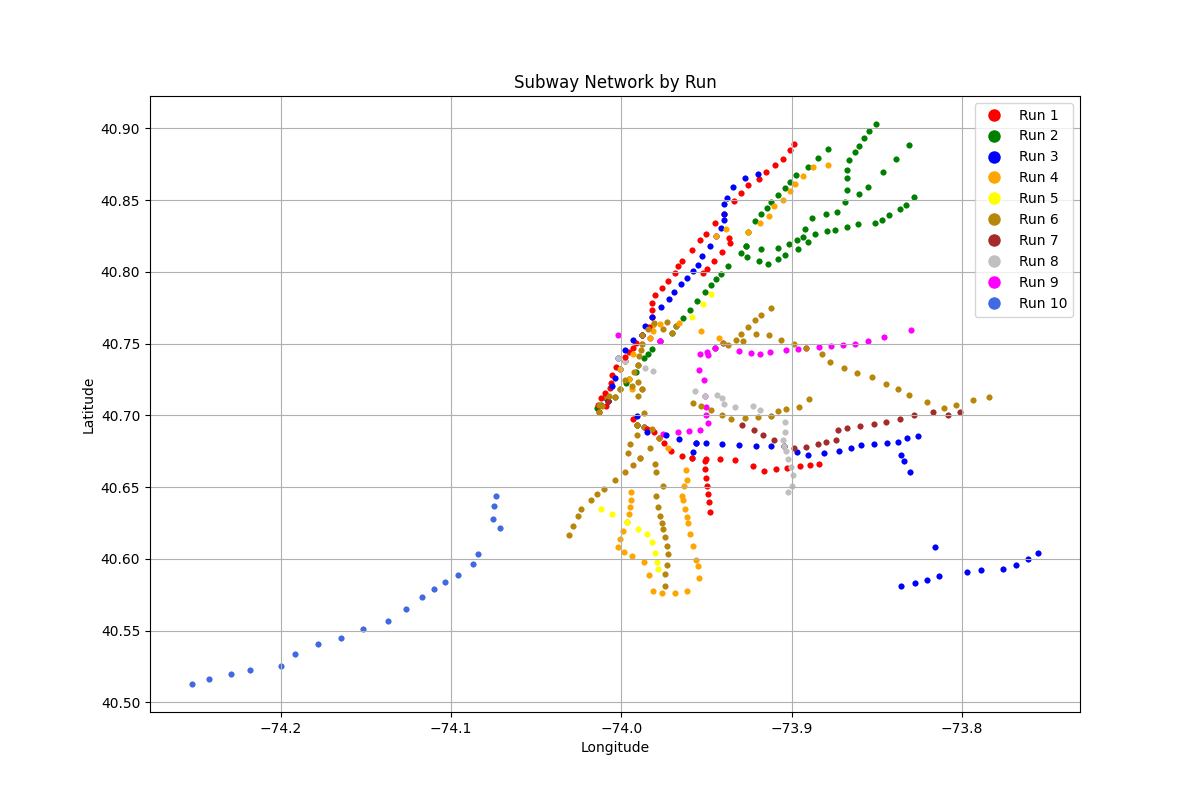
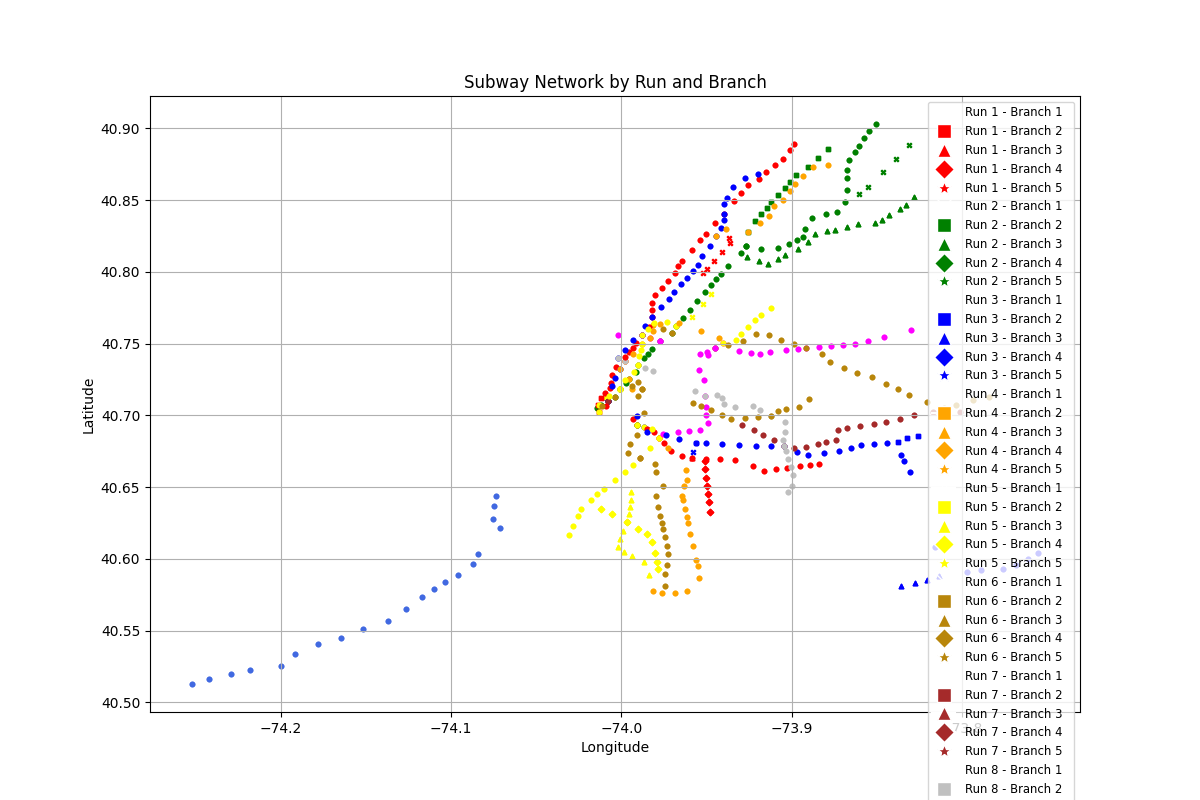
Updated plotting to show branches and branched and ordered run 4

diff --git a/network/plot_network.py b/network/plot_network.py
@@ -21,26 +21,41 @@ run_colors = {
     "Run 10": "royalblue"
 }
 
-# Custom YAML loader to handle defaultdict
-class DefaultDictLoader(yaml.SafeLoader):
-    def construct_python_object_apply(self, node, deep=False):
-        if node.tag == 'tag:yaml.org,2002:python/object/apply:collections.defaultdict':
-            mapping = self.construct_mapping(node, deep=deep)
-            return defaultdict(mapping.pop('default_factory', None), mapping)
-        return super().construct_python_object_apply(node, deep=deep)
+# Define shapes for branches
+branch_shapes = {
+    1: "x",  # Circle
+    2: "s",  # Square
+    3: "^",  # Triangle
+    4: "D",  # Diamond
+    5: "*"   # Star
+}
 
-# Custom YAML loader to handle Python-specific tags
-def remove_python_tags(loader, node):
-    if isinstance(node, yaml.SequenceNode):
-        return loader.construct_sequence(node)
-    elif isinstance(node, yaml.MappingNode):
-        return loader.construct_mapping(node)
-    elif isinstance(node, yaml.ScalarNode):
-        return loader.construct_scalar(node)
-    return None
+# Custom YAML loader to handle defaultdict and Python-specific tags
+class CustomLoader(yaml.SafeLoader):
+    def construct_python_object_apply(self, node):
+        if isinstance(node, yaml.MappingNode):
+            return defaultdict(list, self.construct_mapping(node, deep=True))
+        raise yaml.constructor.ConstructorError(
+            None, None, "expected a mapping node, but found %s" % node.id, node.start_mark
+        )
 
-DefaultDictLoader.add_constructor('tag:yaml.org,2002:python/name:builtins.list', remove_python_tags)
-DefaultDictLoader.add_constructor('tag:yaml.org,2002:python/object/apply:collections.defaultdict', DefaultDictLoader.construct_python_object_apply)
+    def construct_builtin_list(self, node):
+        if isinstance(node, yaml.SequenceNode):
+            return list(self.construct_sequence(node, deep=True))
+        elif isinstance(node, yaml.ScalarNode):
+            return [self.construct_scalar(node)]  # Wrap scalar in a list
+        raise yaml.constructor.ConstructorError(
+            None, None, "expected a sequence or scalar node, but found %s" % node.id, node.start_mark
+        )
+
+CustomLoader.add_constructor(
+    'tag:yaml.org,2002:python/object/apply:collections.defaultdict',
+    CustomLoader.construct_python_object_apply
+)
+CustomLoader.add_constructor(
+    'tag:yaml.org,2002:python/name:builtins.list',
+    CustomLoader.construct_builtin_list
+)
 
 # Convert defaultdict to a regular dictionary during YAML loading
 def convert_defaultdict_to_dict(data):
@@ -56,13 +71,10 @@ def convert_defaultdict_to_dict(data):
 def normalize_stop_id(stop_id):
     return stop_id.strip().upper() if isinstance(stop_id, str) else stop_id
 
-# Function to get station data with coordinates and run assignments from YAML
+# Function to get station data with coordinates, run, and branch assignments from YAML
 def get_station_data_from_yaml(yaml_path, db_path):
     with open(yaml_path, "r") as yaml_file:
-        # Fix YAML loading to extract `dictitems` from defaultdict
-        yaml_data = yaml.load(yaml_file, Loader=DefaultDictLoader)
-        if "dictitems" in yaml_data.get("runs", {}):
-            yaml_data["runs"] = yaml_data["runs"]["dictitems"]  # Extract `dictitems` if present
+        yaml_data = yaml.load(yaml_file, Loader=CustomLoader)
         yaml_data = convert_defaultdict_to_dict(yaml_data)  # Convert defaultdict to regular dict
 
     conn = sqlite3.connect(db_path)
@@ -74,50 +86,78 @@ def get_station_data_from_yaml(yaml_path, db_path):
 
     conn.close()
 
-    # Assign stations to runs based on the YAML data
+    # Assign stations to runs and branches based on the YAML data
     station_data = []
-    run_mappings = yaml_data.get("runs", {})
-
-    # Debugging: Print unmatched runs and station data
-    unmatched_runs = set()
+    run_mappings = yaml_data.get("runs", {}).get("dictitems", {})
 
     # Debugging: Print the structure of run_mappings
-    print("Run mappings structure:", {run: stations[:5] for run, stations in run_mappings.items() if isinstance(stations, list)})
+    print("Run mappings structure:", run_mappings)
 
     for stop_id, stop_name, stop_lat, stop_lon in nodes:
         normalized_stop_id = normalize_stop_id(stop_id)
+
+        # Debugging: Print the normalized stop_id being processed
+        print(f"Processing stop_id: {stop_id}, normalized: {normalized_stop_id}")
+
         assigned_run = None
-        for run, stations in run_mappings.items():
-            if isinstance(stations, list) and any(isinstance(station, dict) and normalize_stop_id(station.get("stop_id")) == normalized_stop_id for station in stations):
-                assigned_run = run
-                break
+        assigned_branch = None
+
+        for run, items in run_mappings.items():
+            if isinstance(items, list):
+                for item in items:
+                    if isinstance(item, dict):
+                        # Check if it's a direct station
+                        if normalize_stop_id(item.get("stop_id")) == normalized_stop_id:
+                            assigned_run = run
+                            break
+                        # Check if it's a branch
+                        branch_name, branch_stations = next(iter(item.items()))
+                        if branch_name.startswith("Branch") and isinstance(branch_stations, list):
+                            for station in branch_stations:
+                                if isinstance(station, dict) and normalize_stop_id(station.get("stop_id")) == normalized_stop_id:
+                                    assigned_run = run
+                                    assigned_branch = int(branch_name.split(" ")[1])  # Extract branch number
+                                    break
+                            if assigned_branch is not None:
+                                break
+                if assigned_run:
+                    break
+
+        # Debugging: Print the assigned run and branch for the station
+        print(f"Assigned Run: {assigned_run}, Assigned Branch: {assigned_branch}")
 
         station_data.append({
             "stop_id": stop_id,
             "stop_name": stop_name,
             "latitude": stop_lat,
             "longitude": stop_lon,
-            "run": assigned_run
+            "run": assigned_run,
+            "branch": assigned_branch
         })
-
-    print("Unmatched stop IDs:", unmatched_runs)
-    print("Station data:", station_data[:10])  # Print first 10 stations for debugging
 
     return station_data
 
 # Function to plot the network and save as an image
-def plot_network(station_data, run_colors, output_path="network_plot.png"):
+def plot_network(station_data, run_colors, branch_shapes, output_path="network_plot.png"):
     plt.figure(figsize=(12, 8))
 
     for station in station_data:
         color = run_colors.get(station["run"], "black")  # Default to black for unmapped stations
-        plt.scatter(station["longitude"], station["latitude"], color=color, label=station["run"], s=10)
+        shape = branch_shapes.get(station["branch"], "o")  # Default to 'x' for unmapped branches
+
+        # Debugging: Print station details to verify color assignment
+        print(f"Plotting station {station['stop_id']} ({station['stop_name']}): Run={station['run']}, Branch={station['branch']}, Color={color}, Shape={shape}")
+
+        plt.scatter(station["longitude"], station["latitude"], color=color, marker=shape, label=f"{station['run']} - Branch {station['branch']}", s=10)
 
     # Add labels and title
     plt.xlabel("Longitude")
     plt.ylabel("Latitude")
-    plt.title("Subway Network by Run")
-    plt.legend(handles=[plt.Line2D([0], [0], marker='o', color='w', markerfacecolor=color, markersize=10, label=run) for run, color in run_colors.items()], loc="upper right")
+    plt.title("Subway Network by Run and Branch")
+    plt.legend(handles=[
+        plt.Line2D([0], [0], marker=shape, color='w', markerfacecolor=color, markersize=10, label=f"{run} - Branch {branch}")
+        for run, color in run_colors.items() for branch, shape in branch_shapes.items()
+    ], loc="upper right", fontsize="small")
     plt.grid(True)
 
     # Save the plot as an image
@@ -128,4 +168,4 @@ def plot_network(station_data, run_colors, output_path="network_plot.png"):
 station_data = get_station_data_from_yaml(yaml_path, db_path)
 
 # Plot the network and save as an image
-plot_network(station_data, run_colors)
+plot_network(station_data, run_colors, branch_shapes)
